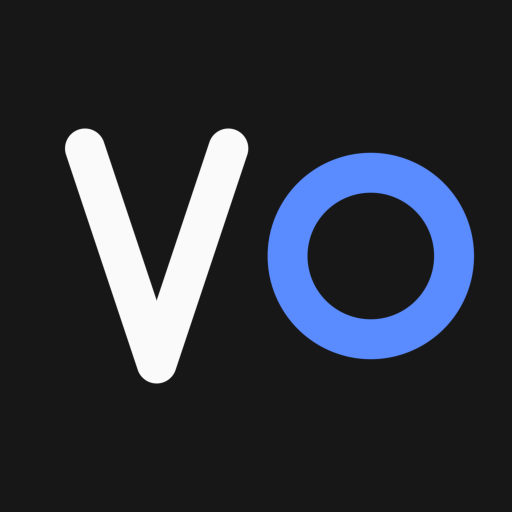
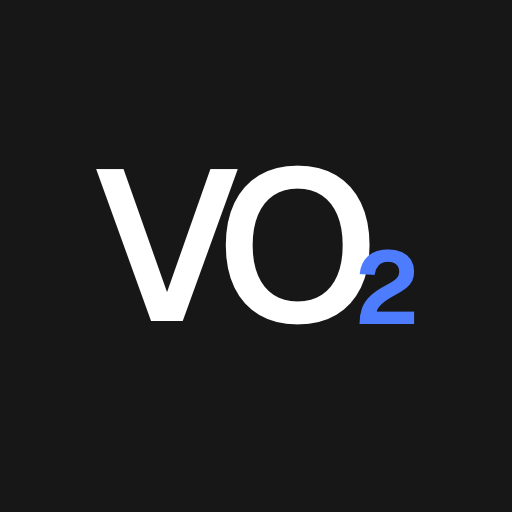
feat: rename the app to VO2 with a lab-formula mark
Display name, PWA metadata, and icons now say VO2. Local
Postgres credentials and Strava placeholder emails stay `vo`
so existing databases and logins keep working.

Changed region(s): [[0.125, 0.25, 0.9375, 0.75]]

diff --git a/src/services/assessments.ts b/src/services/assessments.ts
@@ -1,6 +1,7 @@
 import { createServerFn } from "@tanstack/react-start";
 import { z } from "zod";
 
+import { APP_NAME } from "#/lib/brand.ts";
 import type { AssessmentResult } from "./assessments-score.ts";
 import { sportGroupFor } from "./sport-groups.ts";
 import type { TrainingPlan } from "./training-plan.types.ts";
@@ -29,7 +30,7 @@ export const ASSESSMENT_SESSIONS = [
     scoring: [
       "FTP (watts) = 20-min average power × 0.95.",
       "Cycling LTHR ≈ average heart rate of that same 20-min block.",
-      "Open the ride in vo and flag it as FTP 20-min. Do not rely on the Strava title.",
+      `Open the ride in ${APP_NAME} and flag it as FTP 20-min. Do not rely on the Strava title.`,
     ],
     caveats: [
       "This estimates ~60-min power; some riders’ 20-min × 0.95 runs a little high or low versus a true hour.",
@@ -75,7 +76,7 @@ export const ASSESSMENT_SESSIONS = [
     scoring: [
       "Running LTHR = average heart rate of minutes 10–30 (the last 20 min).",
       "Ignore the first 10 min average.",
-      "Open the run in vo and flag it as Run LTHR. Do not rely on the Strava title.",
+      `Open the run in ${APP_NAME} and flag it as Run LTHR. Do not rely on the Strava title.`,
     ],
     caveats: [
       "Must be solo. A race or training partners push HR above true threshold.",
@@ -179,7 +180,7 @@ function beepScoring(age: number | null) {
       : "VO2max (ml/kg/min) = −27.4 + 6.0 × last-stage speed in km/h (Léger & Gadoury 1989; adult equation holds age at 18).",
     `Example: stage 11.0 → ${exampleSpeed.toFixed(1)} km/h → about ${exampleVo2} ml/kg/min.`,
     "Peak HR is a field estimate of running max HR if you reached exhaustion.",
-    "Open the run in vo, flag it as Beep test, and enter the last completed stage.",
+    `Open the run in ${APP_NAME}, flag it as Beep test, and enter the last completed stage.`,
   ];
 }
 

diff --git a/src/components/signed-out-page.tsx b/src/components/signed-out-page.tsx
@@ -1,10 +1,12 @@
 "use client";
 
 import { useEffect, useState } from "react";
-import { BikeIcon, MonitorIcon, MoonIcon, SunIcon } from "lucide-react";
+import { MonitorIcon, MoonIcon, SunIcon } from "lucide-react";
 import { useTheme } from "next-themes";
 
 import { SignInPanel } from "#/components/sync-panel.tsx";
+import { Vo2Mark, Vo2Wordmark } from "#/components/vo2-mark.tsx";
+import { APP_NAME } from "#/lib/brand.ts";
 import { Button } from "@/components/ui/button";
 
 const THEME_CYCLE = [
@@ -18,8 +20,8 @@ export function SignedOutPage() {
     <div className="flex min-h-dvh flex-col bg-background">
       <header className="flex h-12 shrink-0 items-center justify-between px-4 pt-[max(0px,env(safe-area-inset-top))] sm:px-6">
         <div className="flex items-center gap-2 text-sm font-medium">
-          <BikeIcon aria-hidden className="size-4 text-ds-blue-700" />
-          vo
+          <Vo2Mark className="size-4" />
+          <Vo2Wordmark />
         </div>
         <ThemeCycleButton />
       </header>
@@ -30,8 +32,8 @@ export function SignedOutPage() {
               Sign in with Strava
             </h1>
             <p className="text-muted-foreground text-sm">
-              vo imports your activities, then you can use the calendar, map, fitness, heart rate,
-              and tests.
+              {APP_NAME} imports your activities, then you can use the calendar, map, fitness, heart
+              rate, and tests.
             </p>
           </div>
           <SignInPanel description={false} />

diff --git a/scripts/vo2-icon.html b/scripts/vo2-icon.html
@@ -1,0 +1,52 @@
+<!doctype html>
+<html lang="en">
+  <head>
+    <meta charset="utf-8" />
+    <title>VO2 icon</title>
+    <style>
+      @font-face {
+        font-family: Geist;
+        src: url("../node_modules/@fontsource-variable/geist/files/geist-latin-wght-normal.woff2")
+          format("woff2");
+        font-weight: 100 900;
+        font-style: normal;
+      }
+      html,
+      body {
+        margin: 0;
+        width: 512px;
+        height: 512px;
+        background: #171717;
+        overflow: hidden;
+      }
+      .icon {
+        width: 512px;
+        height: 512px;
+        display: flex;
+        align-items: center;
+        justify-content: center;
+        padding: 0 24px 22px;
+        box-sizing: border-box;
+        font-family: Geist, ui-sans-serif, system-ui, sans-serif;
+        font-weight: 560;
+        font-size: 214px;
+        letter-spacing: -0.08em;
+        color: #fff;
+        -webkit-font-smoothing: antialiased;
+        line-height: 1;
+      }
+      .two {
+        font-size: 0.48em;
+        font-weight: 650;
+        color: #4d7cff;
+        letter-spacing: 0;
+        position: relative;
+        top: 0.42em;
+        margin-left: -0.08em;
+      }
+    </style>
+  </head>
+  <body>
+    <div class="icon">VO<span class="two">2</span></div>
+  </body>
+</html>

diff --git a/src/components/app-sidebar.tsx b/src/components/app-sidebar.tsx
@@ -4,7 +4,6 @@ import { useEffect, useState } from "react";
 import { useQuery, useQueryClient } from "@tanstack/react-query";
 import { Link, useRouter, useRouterState } from "@tanstack/react-router";
 import {
-  BikeIcon,
   CalendarDaysIcon,
   FlaskConicalIcon,
   HeartPulseIcon,
@@ -19,6 +18,8 @@ import {
 import { useTheme } from "next-themes";
 
 import { SettingsDialog } from "#/components/settings-dialog.tsx";
+import { Vo2Mark, Vo2Wordmark } from "#/components/vo2-mark.tsx";
+import { APP_NAME } from "#/lib/brand.ts";
 import { authClient } from "#/lib/auth-client.ts";
 import { appShellQueryOptions } from "#/lib/queries.ts";
 import { isTrainingPlanComplete } from "#/services/training-plan.ts";
@@ -94,9 +95,9 @@ export function AppSidebar() {
         <SidebarHeader>
           <SidebarMenu>
             <SidebarMenuItem>
-              <SidebarMenuButton tooltip="vo" render={<Link to="/" />}>
-                <BikeIcon className="text-ds-blue-700" />
-                <span>vo</span>
+              <SidebarMenuButton tooltip={APP_NAME} render={<Link to="/" />}>
+                <Vo2Mark />
+                <Vo2Wordmark />
               </SidebarMenuButton>
             </SidebarMenuItem>
           </SidebarMenu>

diff --git a/src/routes/__root.tsx b/src/routes/__root.tsx
@@ -5,6 +5,7 @@ import { TanStackDevtools } from "@tanstack/react-devtools";
 
 import TanStackQueryDevtools from "../integrations/tanstack-query/devtools";
 import { ThemeProvider } from "#/components/theme-provider.tsx";
+import { APP_NAME, APP_TITLE } from "#/lib/brand.ts";
 import { TooltipProvider } from "@/components/ui/tooltip";
 
 import appCss from "../styles.css?url";
@@ -23,9 +24,9 @@ export const Route = createRootRouteWithContext<MyRouterContext>()({
         name: "viewport",
         content: "width=device-width, initial-scale=1, viewport-fit=cover",
       },
-      { title: "vo — Strava calendar" },
+      { title: APP_TITLE },
       { name: "theme-color", content: "#171717" },
-      { name: "apple-mobile-web-app-title", content: "vo" },
+      { name: "apple-mobile-web-app-title", content: APP_NAME },
       { name: "apple-mobile-web-app-status-bar-style", content: "black-translucent" },
     ],
     links: [

diff --git a/src/components/vo2-mark.tsx b/src/components/vo2-mark.tsx
@@ -1,0 +1,34 @@
+import { APP_NAME } from "#/lib/brand.ts";
+import { cn } from "#/lib/utils.ts";
+
+type Vo2MarkProps = {
+  className?: string;
+};
+
+/** App icon: VO₂ lab formula on the dark tile. */
+export function Vo2Mark({ className }: Vo2MarkProps) {
+  return (
+    <img
+      src="/icon-192.png"
+      alt=""
+      width={16}
+      height={16}
+      className={cn("size-4 shrink-0 rounded-[5px]", className)}
+    />
+  );
+}
+
+/** In-app wordmark: VO with a blue subscript 2. */
+export function Vo2Wordmark({ className }: Vo2MarkProps) {
+  return (
+    <span className={cn("inline-flex items-baseline tracking-tight", className)}>
+      <span className="sr-only">{APP_NAME}</span>
+      <span aria-hidden="true">
+        VO
+        <span className="relative top-[0.32em] -ml-px text-[0.62em] font-semibold text-ds-blue-700">
+          2
+        </span>
+      </span>
+    </span>
+  );
+}

diff --git a/src/services/activity-analysis.server.ts b/src/services/activity-analysis.server.ts
@@ -12,6 +12,7 @@ import { createOpenRouterText } from "@tanstack/ai-openrouter";
 import { serverEnv } from "#/configs/env.ts";
 import { db } from "#/db/index.ts";
 import { activities, activityAnalyses, activityStreams, athleteMetrics } from "#/db/schema.ts";
+import { APP_NAME } from "#/lib/brand.ts";
 import { getOptionalSession, getRequiredSession } from "#/lib/session.server.ts";
 import { mockActivityAnalysisText } from "./activity-analysis-mock.ts";
 import {
@@ -254,7 +255,7 @@ export async function handleActivityAnalysis(request: Request) {
   const adapter = apiKey
     ? createOpenRouterText(ANALYSIS_MODEL, apiKey, {
         httpReferer: serverEnv.betterAuthUrl(),
-        appTitle: "vo",
+        appTitle: APP_NAME,
       })
     : mockActivityAnalysisText();
 

diff --git a/src/lib/brand.ts b/src/lib/brand.ts
@@ -1,0 +1,4 @@
+/** User-facing product name. Local DB/auth identifiers stay `vo` so existing setups keep working. */
+export const APP_NAME = "VO2";
+export const APP_TAGLINE = "Strava calendar";
+export const APP_TITLE = `${APP_NAME} — ${APP_TAGLINE}`;

diff --git a/README.md b/README.md
@@ -1,4 +1,4 @@
-# vo
+# VO2
 
 Local Strava activity calendar. Sign in with Strava, import every activity and its streams into Postgres, then browse them in a month/week/day calendar.
 
@@ -31,9 +31,11 @@ vp run dev
 
 The app is at http://localhost:3000.
 
+Local Postgres still uses the `vo` user, password, and database name so existing `.env` files and volumes keep working.
+
 ## Sync behavior
 
-Strava read limits are typically 100 requests / 15 minutes and 1,000 / day. vo:
+Strava read limits are typically 100 requests / 15 minutes and 1,000 / day. VO2:
 
 - pages `/athlete/activities` (200 per page)
 - then fetches `/activities/{id}/streams` in small batches
